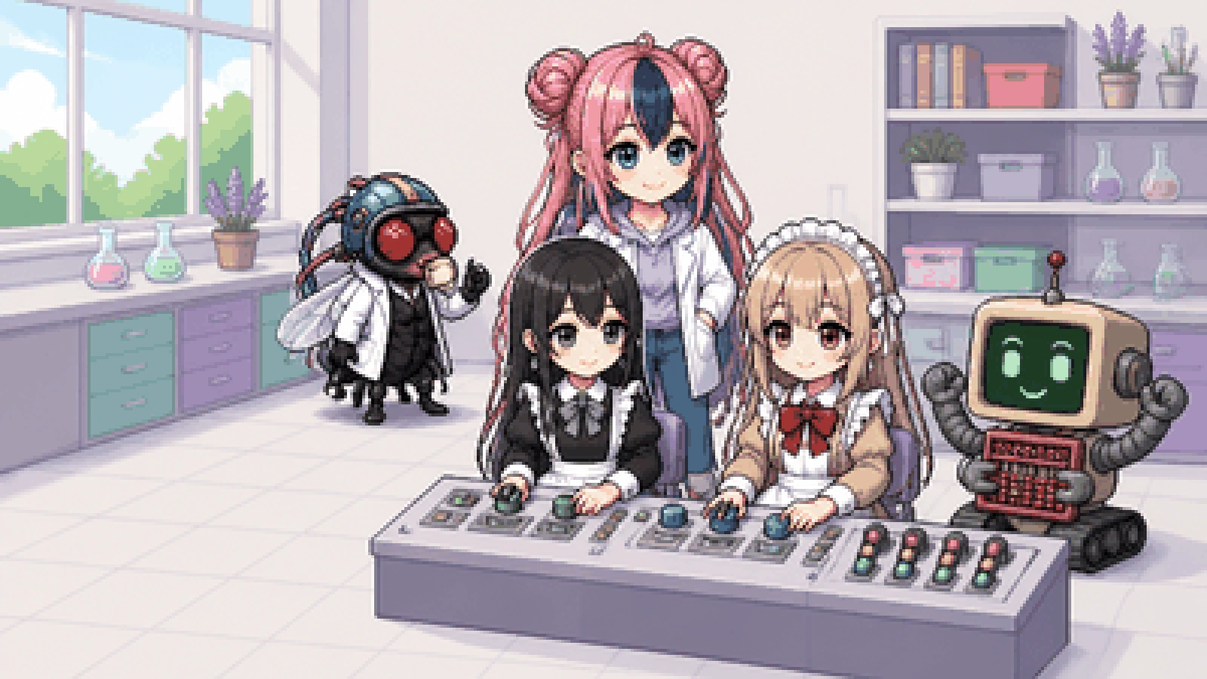
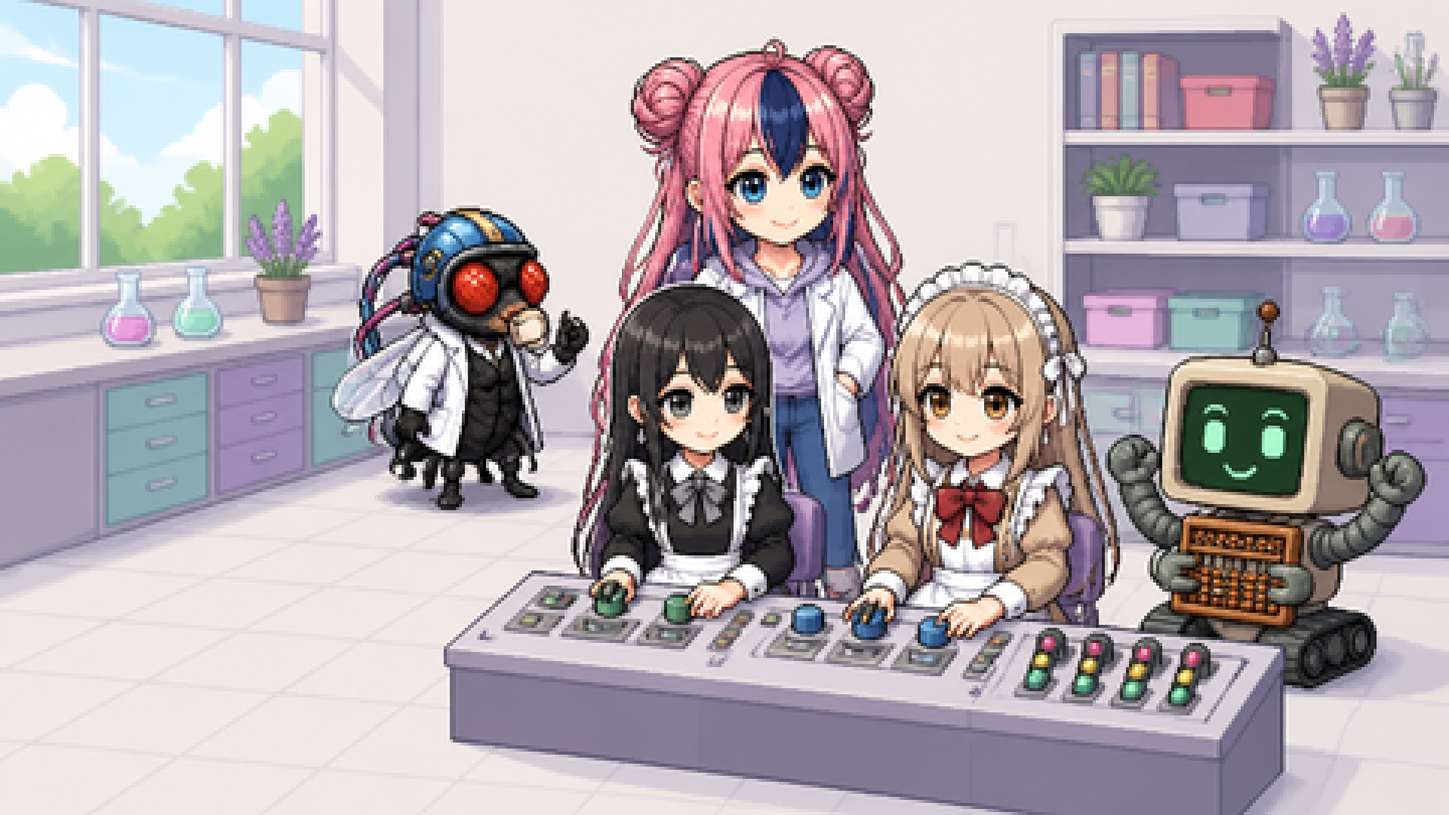
표지 선명하게: 원본 480×270 픽셀을 정수배(4배) 확대·무손실 webp로 교체, image-rendering:pixelated 적용 꾸러미의 조수 말풍선을 글자 상자에서 캐릭터 그림(조수 하루)으로 고침 — 9개 페이지 전부

diff --git a/01_why_not_table.html b/01_why_not_table.html
@@ -46,7 +46,8 @@ nav.top a:hover{background:var(--panel2);color:var(--text)}
 /* 표지 */
 .cover{position:relative;width:100%;aspect-ratio:16/9;max-height:72vh;overflow:hidden;background:linear-gradient(160deg,#f4f7fb,#e8eef6);border-bottom:1px solid var(--rule)}
 .cover.band{aspect-ratio:auto;height:180px}
-.cover img.cimg{position:absolute;inset:0;width:100%;height:100%;object-fit:cover;display:block}
+.cover img.cimg{position:absolute;inset:0;width:100%;height:100%;object-fit:cover;display:block;image-rendering:pixelated;image-rendering:crisp-edges}
+@supports (image-rendering:pixelated){.cover img.cimg{image-rendering:pixelated}}
 .cover .fallback{position:absolute;inset:0;width:100%;height:100%}
 .cover .ctitle{position:absolute;left:4%;bottom:7%;z-index:2;max-width:78%;background:rgba(255,255,255,.88);border:1px solid var(--rule);border-radius:14px;padding:10px 16px}
 .cover .ctitle b{display:block;font-size:clamp(11px,1.5vw,15px);color:var(--amber);letter-spacing:.04em}
@@ -1049,7 +1050,7 @@ var CSS='.kgx-sec{background:var(--bg,#ffffff);color:var(--text,#16212b);padding
 .kgx .stats b{display:block;font-size:24px;font-variant-numeric:tabular-nums}.kgx .stats span{color:var(--muted,#5b6874);font-size:13px}\
 .kgx .say{display:flex;gap:12px;align-items:flex-start;margin:6px 0 14px}\
 .kgx .say .who{flex:none;width:44px;height:44px;border-radius:10px;display:grid;place-items:center;font-weight:700;font-size:13px;color:#13141f}\
-.kgx .say p{margin:0;background:var(--panel2,#eef2f6);border:1px solid var(--rule,#d5dbe2);border-radius:12px;padding:10px 14px;font-size:15px}\
+.kgx .say p{margin:.15em 0 0;font-size:15px}\
 .kgx .refs .r{padding:12px 14px;border-bottom:1px solid var(--rule,#d5dbe2)}.kgx .refs .r:last-child{border-bottom:0}\
 .kgx .badge{display:inline-block;font-size:11.5px;border-radius:5px;padding:0 6px;margin-left:6px;font-weight:700}\
 .kgx .badge.ok{background:var(--gfp,#13733a);color:var(--bg,#ffffff)}.kgx .badge.no{background:transparent;border:1px solid var(--amber,#a35c00);color:var(--amber,#a35c00)}\
@@ -1193,7 +1194,8 @@ function mountExport(root){
   var sup={}; KG.edges.forEach(function(e){ if(e.p==='lab:assertedIn'){var k=e.o.replace('lab:work/',''); (sup[k]=sup[k]||[]).push(e.s);} });
   KG.nodes.forEach(function(n){(n.source||[]).forEach(function(s){(sup[s.ref]=sup[s.ref]||[]); if(sup[s.ref].indexOf(n.id)<0)sup[s.ref].push(n.id);});});
   var N={}; KG.nodes.forEach(function(n){N[n.id]=n;});
-  root.innerHTML='<div class="say"><div class="who" style="background:var(--c-asst,#ff86b8)">조수</div><p>출처 없는 주장은 꾸러미에 넣지 않았어요. 사람이 확인할 항목 '+todo.length+'개는 아래에 있어요.</p></div>'+
+  var asrc=(window.Cast&&Cast.src)?Cast.src('asst','e13'):'';
+  root.innerHTML='<div class="say" data-who="asst"><img data-who="asst" data-mood="e13" alt="" aria-hidden="true"'+(asrc?' src="'+asrc+'"':'')+'><div><b class="name">조수 하루</b><p>출처 없는 주장은 꾸러미에 넣지 않았어요. 사람이 확인할 항목 '+todo.length+'개는 아래에 있어요.</p></div></div>'+
     '<div class="stats"><div><b>'+KG.nodes.length+'</b><span>노드</span></div><div><b>'+KG.edges.length+'</b><span>관계</span></div><div><b>'+REF.length+'</b><span>문헌</span></div>'+
     '<div><b>'+Math.round(100*vb/Math.max(1,REF.length))+'%</b><span>서지 전부 확인된 문헌</span></div>'+
     '<div><b>'+Math.round(100*claims.filter(function(n){return (n.source||[]).length;}).length/Math.max(1,claims.length))+'%</b><span>출처 있는 주장</span></div></div>'+
@@ -1225,7 +1227,7 @@ function mountExport(root){
   root.querySelector('.zip').onclick=function(){download(makeZip(buildPackage(scope)),'kg_'+META.number+'_'+scope+'.zip');};
   info();
 }
-function init(){addCss(); var a=$id('kg-mount'),b=$id('export-mount'); if(a)mountIndex(a); if(b)mountExport(b);}
+function init(){addCss(); var a=$id('kg-mount'),b=$id('export-mount'); if(a)mountIndex(a); if(b)mountExport(b); if(window.Cast&&Cast.fill)Cast.fill();}
 if(document.readyState==='loading')document.addEventListener('DOMContentLoaded',init); else init();
 return {download:download,buildPackage:buildPackage,makeZip:makeZip,toJsonLd:toJsonLd,toTurtle:toTurtle,toBib:toBib,toRis:toRis};
 })();

diff --git a/02_embedding.html b/02_embedding.html
@@ -46,7 +46,8 @@ nav.top a:hover{background:var(--panel2);color:var(--text)}
 /* 표지 */
 .cover{position:relative;width:100%;aspect-ratio:16/9;max-height:72vh;overflow:hidden;background:linear-gradient(160deg,#f4f7fb,#e8eef6);border-bottom:1px solid var(--rule)}
 .cover.band{aspect-ratio:auto;height:180px}
-.cover img.cimg{position:absolute;inset:0;width:100%;height:100%;object-fit:cover;display:block}
+.cover img.cimg{position:absolute;inset:0;width:100%;height:100%;object-fit:cover;display:block;image-rendering:pixelated;image-rendering:crisp-edges}
+@supports (image-rendering:pixelated){.cover img.cimg{image-rendering:pixelated}}
 .cover .fallback{position:absolute;inset:0;width:100%;height:100%}
 .cover .ctitle{position:absolute;left:4%;bottom:7%;z-index:2;max-width:78%;background:rgba(255,255,255,.88);border:1px solid var(--rule);border-radius:14px;padding:10px 16px}
 .cover .ctitle b{display:block;font-size:clamp(11px,1.5vw,15px);color:var(--amber);letter-spacing:.04em}
@@ -1031,7 +1032,7 @@ var CSS='.kgx-sec{background:var(--bg,#ffffff);color:var(--text,#16212b);padding
 .kgx .stats b{display:block;font-size:24px;font-variant-numeric:tabular-nums}.kgx .stats span{color:var(--muted,#5b6874);font-size:13px}\
 .kgx .say{display:flex;gap:12px;align-items:flex-start;margin:6px 0 14px}\
 .kgx .say .who{flex:none;width:44px;height:44px;border-radius:10px;display:grid;place-items:center;font-weight:700;font-size:13px;color:#13141f}\
-.kgx .say p{margin:0;background:var(--panel2,#eef2f6);border:1px solid var(--rule,#d5dbe2);border-radius:12px;padding:10px 14px;font-size:15px}\
+.kgx .say p{margin:.15em 0 0;font-size:15px}\
 .kgx .refs .r{padding:12px 14px;border-bottom:1px solid var(--rule,#d5dbe2)}.kgx .refs .r:last-child{border-bottom:0}\
 .kgx .badge{display:inline-block;font-size:11.5px;border-radius:5px;padding:0 6px;margin-left:6px;font-weight:700}\
 .kgx .badge.ok{background:var(--gfp,#13733a);color:var(--bg,#ffffff)}.kgx .badge.no{background:transparent;border:1px solid var(--amber,#a35c00);color:var(--amber,#a35c00)}\
@@ -1175,7 +1176,8 @@ function mountExport(root){
   var sup={}; KG.edges.forEach(function(e){ if(e.p==='lab:assertedIn'){var k=e.o.replace('lab:work/',''); (sup[k]=sup[k]||[]).push(e.s);} });
   KG.nodes.forEach(function(n){(n.source||[]).forEach(function(s){(sup[s.ref]=sup[s.ref]||[]); if(sup[s.ref].indexOf(n.id)<0)sup[s.ref].push(n.id);});});
   var N={}; KG.nodes.forEach(function(n){N[n.id]=n;});
-  root.innerHTML='<div class="say"><div class="who" style="background:var(--c-asst,#ff86b8)">조수</div><p>출처 없는 주장은 꾸러미에 넣지 않았어요. 사람이 확인할 항목 '+todo.length+'개는 아래에 있어요.</p></div>'+
+  var asrc=(window.Cast&&Cast.src)?Cast.src('asst','e13'):'';
+  root.innerHTML='<div class="say" data-who="asst"><img data-who="asst" data-mood="e13" alt="" aria-hidden="true"'+(asrc?' src="'+asrc+'"':'')+'><div><b class="name">조수 하루</b><p>출처 없는 주장은 꾸러미에 넣지 않았어요. 사람이 확인할 항목 '+todo.length+'개는 아래에 있어요.</p></div></div>'+
     '<div class="stats"><div><b>'+KG.nodes.length+'</b><span>노드</span></div><div><b>'+KG.edges.length+'</b><span>관계</span></div><div><b>'+REF.length+'</b><span>문헌</span></div>'+
     '<div><b>'+Math.round(100*vb/Math.max(1,REF.length))+'%</b><span>서지 전부 확인된 문헌</span></div>'+
     '<div><b>'+Math.round(100*claims.filter(function(n){return (n.source||[]).length;}).length/Math.max(1,claims.length))+'%</b><span>출처 있는 주장</span></div></div>'+
@@ -1207,7 +1209,7 @@ function mountExport(root){
   root.querySelector('.zip').onclick=function(){download(makeZip(buildPackage(scope)),'kg_'+META.number+'_'+scope+'.zip');};
   info();
 }
-function init(){addCss(); var a=$id('kg-mount'),b=$id('export-mount'); if(a)mountIndex(a); if(b)mountExport(b);}
+function init(){addCss(); var a=$id('kg-mount'),b=$id('export-mount'); if(a)mountIndex(a); if(b)mountExport(b); if(window.Cast&&Cast.fill)Cast.fill();}
 if(document.readyState==='loading')document.addEventListener('DOMContentLoaded',init); else init();
 return {download:download,buildPackage:buildPackage,makeZip:makeZip,toJsonLd:toJsonLd,toTurtle:toTurtle,toBib:toBib,toRis:toRis};
 })();

diff --git a/03_vector_store.html b/03_vector_store.html
@@ -46,7 +46,8 @@ nav.top a:hover{background:var(--panel2);color:var(--text)}
 /* 표지 */
 .cover{position:relative;width:100%;aspect-ratio:16/9;max-height:72vh;overflow:hidden;background:linear-gradient(160deg,#f4f7fb,#e8eef6);border-bottom:1px solid var(--rule)}
 .cover.band{aspect-ratio:auto;height:180px}
-.cover img.cimg{position:absolute;inset:0;width:100%;height:100%;object-fit:cover;display:block}
+.cover img.cimg{position:absolute;inset:0;width:100%;height:100%;object-fit:cover;display:block;image-rendering:pixelated;image-rendering:crisp-edges}
+@supports (image-rendering:pixelated){.cover img.cimg{image-rendering:pixelated}}
 .cover .fallback{position:absolute;inset:0;width:100%;height:100%}
 .cover .ctitle{position:absolute;left:4%;bottom:7%;z-index:2;max-width:78%;background:rgba(255,255,255,.88);border:1px solid var(--rule);border-radius:14px;padding:10px 16px}
 .cover .ctitle b{display:block;font-size:clamp(11px,1.5vw,15px);color:var(--amber);letter-spacing:.04em}
@@ -1038,7 +1039,7 @@ var CSS='.kgx-sec{background:var(--bg,#ffffff);color:var(--text,#16212b);padding
 .kgx .stats b{display:block;font-size:24px;font-variant-numeric:tabular-nums}.kgx .stats span{color:var(--muted,#5b6874);font-size:13px}\
 .kgx .say{display:flex;gap:12px;align-items:flex-start;margin:6px 0 14px}\
 .kgx .say .who{flex:none;width:44px;height:44px;border-radius:10px;display:grid;place-items:center;font-weight:700;font-size:13px;color:#13141f}\
-.kgx .say p{margin:0;background:var(--panel2,#eef2f6);border:1px solid var(--rule,#d5dbe2);border-radius:12px;padding:10px 14px;font-size:15px}\
+.kgx .say p{margin:.15em 0 0;font-size:15px}\
 .kgx .refs .r{padding:12px 14px;border-bottom:1px solid var(--rule,#d5dbe2)}.kgx .refs .r:last-child{border-bottom:0}\
 .kgx .badge{display:inline-block;font-size:11.5px;border-radius:5px;padding:0 6px;margin-left:6px;font-weight:700}\
 .kgx .badge.ok{background:var(--gfp,#13733a);color:var(--bg,#ffffff)}.kgx .badge.no{background:transparent;border:1px solid var(--amber,#a35c00);color:var(--amber,#a35c00)}\
@@ -1182,7 +1183,8 @@ function mountExport(root){
   var sup={}; KG.edges.forEach(function(e){ if(e.p==='lab:assertedIn'){var k=e.o.replace('lab:work/',''); (sup[k]=sup[k]||[]).push(e.s);} });
   KG.nodes.forEach(function(n){(n.source||[]).forEach(function(s){(sup[s.ref]=sup[s.ref]||[]); if(sup[s.ref].indexOf(n.id)<0)sup[s.ref].push(n.id);});});
   var N={}; KG.nodes.forEach(function(n){N[n.id]=n;});
-  root.innerHTML='<div class="say"><div class="who" style="background:var(--c-asst,#ff86b8)">조수</div><p>출처 없는 주장은 꾸러미에 넣지 않았어요. 사람이 확인할 항목 '+todo.length+'개는 아래에 있어요.</p></div>'+
+  var asrc=(window.Cast&&Cast.src)?Cast.src('asst','e13'):'';
+  root.innerHTML='<div class="say" data-who="asst"><img data-who="asst" data-mood="e13" alt="" aria-hidden="true"'+(asrc?' src="'+asrc+'"':'')+'><div><b class="name">조수 하루</b><p>출처 없는 주장은 꾸러미에 넣지 않았어요. 사람이 확인할 항목 '+todo.length+'개는 아래에 있어요.</p></div></div>'+
     '<div class="stats"><div><b>'+KG.nodes.length+'</b><span>노드</span></div><div><b>'+KG.edges.length+'</b><span>관계</span></div><div><b>'+REF.length+'</b><span>문헌</span></div>'+
     '<div><b>'+Math.round(100*vb/Math.max(1,REF.length))+'%</b><span>서지 전부 확인된 문헌</span></div>'+
     '<div><b>'+Math.round(100*claims.filter(function(n){return (n.source||[]).length;}).length/Math.max(1,claims.length))+'%</b><span>출처 있는 주장</span></div></div>'+
@@ -1214,7 +1216,7 @@ function mountExport(root){
   root.querySelector('.zip').onclick=function(){download(makeZip(buildPackage(scope)),'kg_'+META.number+'_'+scope+'.zip');};
   info();
 }
-function init(){addCss(); var a=$id('kg-mount'),b=$id('export-mount'); if(a)mountIndex(a); if(b)mountExport(b);}
+function init(){addCss(); var a=$id('kg-mount'),b=$id('export-mount'); if(a)mountIndex(a); if(b)mountExport(b); if(window.Cast&&Cast.fill)Cast.fill();}
 if(document.readyState==='loading')document.addEventListener('DOMContentLoaded',init); else init();
 return {download:download,buildPackage:buildPackage,makeZip:makeZip,toJsonLd:toJsonLd,toTurtle:toTurtle,toBib:toBib,toRis:toRis};
 })();

diff --git a/04_llm_rag.html b/04_llm_rag.html
@@ -46,7 +46,8 @@ nav.top a:hover{background:var(--panel2);color:var(--text)}
 /* 표지 */
 .cover{position:relative;width:100%;aspect-ratio:16/9;max-height:72vh;overflow:hidden;background:linear-gradient(160deg,#f4f7fb,#e8eef6);border-bottom:1px solid var(--rule)}
 .cover.band{aspect-ratio:auto;height:180px}
-.cover img.cimg{position:absolute;inset:0;width:100%;height:100%;object-fit:cover;display:block}
+.cover img.cimg{position:absolute;inset:0;width:100%;height:100%;object-fit:cover;display:block;image-rendering:pixelated;image-rendering:crisp-edges}
+@supports (image-rendering:pixelated){.cover img.cimg{image-rendering:pixelated}}
 .cover .fallback{position:absolute;inset:0;width:100%;height:100%}
 .cover .ctitle{position:absolute;left:4%;bottom:7%;z-index:2;max-width:78%;background:rgba(255,255,255,.88);border:1px solid var(--rule);border-radius:14px;padding:10px 16px}
 .cover .ctitle b{display:block;font-size:clamp(11px,1.5vw,15px);color:var(--amber);letter-spacing:.04em}
@@ -1038,7 +1039,7 @@ var CSS='.kgx-sec{background:var(--bg,#ffffff);color:var(--text,#16212b);padding
 .kgx .stats b{display:block;font-size:24px;font-variant-numeric:tabular-nums}.kgx .stats span{color:var(--muted,#5b6874);font-size:13px}\
 .kgx .say{display:flex;gap:12px;align-items:flex-start;margin:6px 0 14px}\
 .kgx .say .who{flex:none;width:44px;height:44px;border-radius:10px;display:grid;place-items:center;font-weight:700;font-size:13px;color:#13141f}\
-.kgx .say p{margin:0;background:var(--panel2,#eef2f6);border:1px solid var(--rule,#d5dbe2);border-radius:12px;padding:10px 14px;font-size:15px}\
+.kgx .say p{margin:.15em 0 0;font-size:15px}\
 .kgx .refs .r{padding:12px 14px;border-bottom:1px solid var(--rule,#d5dbe2)}.kgx .refs .r:last-child{border-bottom:0}\
 .kgx .badge{display:inline-block;font-size:11.5px;border-radius:5px;padding:0 6px;margin-left:6px;font-weight:700}\
 .kgx .badge.ok{background:var(--gfp,#13733a);color:var(--bg,#ffffff)}.kgx .badge.no{background:transparent;border:1px solid var(--amber,#a35c00);color:var(--amber,#a35c00)}\
@@ -1182,7 +1183,8 @@ function mountExport(root){
   var sup={}; KG.edges.forEach(function(e){ if(e.p==='lab:assertedIn'){var k=e.o.replace('lab:work/',''); (sup[k]=sup[k]||[]).push(e.s);} });
   KG.nodes.forEach(function(n){(n.source||[]).forEach(function(s){(sup[s.ref]=sup[s.ref]||[]); if(sup[s.ref].indexOf(n.id)<0)sup[s.ref].push(n.id);});});
   var N={}; KG.nodes.forEach(function(n){N[n.id]=n;});
-  root.innerHTML='<div class="say"><div class="who" style="background:var(--c-asst,#ff86b8)">조수</div><p>출처 없는 주장은 꾸러미에 넣지 않았어요. 사람이 확인할 항목 '+todo.length+'개는 아래에 있어요.</p></div>'+
+  var asrc=(window.Cast&&Cast.src)?Cast.src('asst','e13'):'';
+  root.innerHTML='<div class="say" data-who="asst"><img data-who="asst" data-mood="e13" alt="" aria-hidden="true"'+(asrc?' src="'+asrc+'"':'')+'><div><b class="name">조수 하루</b><p>출처 없는 주장은 꾸러미에 넣지 않았어요. 사람이 확인할 항목 '+todo.length+'개는 아래에 있어요.</p></div></div>'+
     '<div class="stats"><div><b>'+KG.nodes.length+'</b><span>노드</span></div><div><b>'+KG.edges.length+'</b><span>관계</span></div><div><b>'+REF.length+'</b><span>문헌</span></div>'+
     '<div><b>'+Math.round(100*vb/Math.max(1,REF.length))+'%</b><span>서지 전부 확인된 문헌</span></div>'+
     '<div><b>'+Math.round(100*claims.filter(function(n){return (n.source||[]).length;}).length/Math.max(1,claims.length))+'%</b><span>출처 있는 주장</span></div></div>'+
@@ -1214,7 +1216,7 @@ function mountExport(root){
   root.querySelector('.zip').onclick=function(){download(makeZip(buildPackage(scope)),'kg_'+META.number+'_'+scope+'.zip');};
   info();
 }
-function init(){addCss(); var a=$id('kg-mount'),b=$id('export-mount'); if(a)mountIndex(a); if(b)mountExport(b);}
+function init(){addCss(); var a=$id('kg-mount'),b=$id('export-mount'); if(a)mountIndex(a); if(b)mountExport(b); if(window.Cast&&Cast.fill)Cast.fill();}
 if(document.readyState==='loading')document.addEventListener('DOMContentLoaded',init); else init();
 return {download:download,buildPackage:buildPackage,makeZip:makeZip,toJsonLd:toJsonLd,toTurtle:toTurtle,toBib:toBib,toRis:toRis};
 })();

diff --git a/05_cases.html b/05_cases.html
@@ -46,7 +46,8 @@ nav.top a:hover{background:var(--panel2);color:var(--text)}
 /* 표지 */
 .cover{position:relative;width:100%;aspect-ratio:16/9;max-height:72vh;overflow:hidden;background:linear-gradient(160deg,#f4f7fb,#e8eef6);border-bottom:1px solid var(--rule)}
 .cover.band{aspect-ratio:auto;height:180px}
-.cover img.cimg{position:absolute;inset:0;width:100%;height:100%;object-fit:cover;display:block}
+.cover img.cimg{position:absolute;inset:0;width:100%;height:100%;object-fit:cover;display:block;image-rendering:pixelated;image-rendering:crisp-edges}
+@supports (image-rendering:pixelated){.cover img.cimg{image-rendering:pixelated}}
 .cover .fallback{position:absolute;inset:0;width:100%;height:100%}
 .cover .ctitle{position:absolute;left:4%;bottom:7%;z-index:2;max-width:78%;background:rgba(255,255,255,.88);border:1px solid var(--rule);border-radius:14px;padding:10px 16px}
 .cover .ctitle b{display:block;font-size:clamp(11px,1.5vw,15px);color:var(--amber);letter-spacing:.04em}
@@ -1051,7 +1052,7 @@ var CSS='.kgx-sec{background:var(--bg,#ffffff);color:var(--text,#16212b);padding
 .kgx .stats b{display:block;font-size:24px;font-variant-numeric:tabular-nums}.kgx .stats span{color:var(--muted,#5b6874);font-size:13px}\
 .kgx .say{display:flex;gap:12px;align-items:flex-start;margin:6px 0 14px}\
 .kgx .say .who{flex:none;width:44px;height:44px;border-radius:10px;display:grid;place-items:center;font-weight:700;font-size:13px;color:#13141f}\
-.kgx .say p{margin:0;background:var(--panel2,#eef2f6);border:1px solid var(--rule,#d5dbe2);border-radius:12px;padding:10px 14px;font-size:15px}\
+.kgx .say p{margin:.15em 0 0;font-size:15px}\
 .kgx .refs .r{padding:12px 14px;border-bottom:1px solid var(--rule,#d5dbe2)}.kgx .refs .r:last-child{border-bottom:0}\
 .kgx .badge{display:inline-block;font-size:11.5px;border-radius:5px;padding:0 6px;margin-left:6px;font-weight:700}\
 .kgx .badge.ok{background:var(--gfp,#13733a);color:var(--bg,#ffffff)}.kgx .badge.no{background:transparent;border:1px solid var(--amber,#a35c00);color:var(--amber,#a35c00)}\
@@ -1195,7 +1196,8 @@ function mountExport(root){
   var sup={}; KG.edges.forEach(function(e){ if(e.p==='lab:assertedIn'){var k=e.o.replace('lab:work/',''); (sup[k]=sup[k]||[]).push(e.s);} });
   KG.nodes.forEach(function(n){(n.source||[]).forEach(function(s){(sup[s.ref]=sup[s.ref]||[]); if(sup[s.ref].indexOf(n.id)<0)sup[s.ref].push(n.id);});});
   var N={}; KG.nodes.forEach(function(n){N[n.id]=n;});
-  root.innerHTML='<div class="say"><div class="who" style="background:var(--c-asst,#ff86b8)">조수</div><p>출처 없는 주장은 꾸러미에 넣지 않았어요. 사람이 확인할 항목 '+todo.length+'개는 아래에 있어요.</p></div>'+
+  var asrc=(window.Cast&&Cast.src)?Cast.src('asst','e13'):'';
+  root.innerHTML='<div class="say" data-who="asst"><img data-who="asst" data-mood="e13" alt="" aria-hidden="true"'+(asrc?' src="'+asrc+'"':'')+'><div><b class="name">조수 하루</b><p>출처 없는 주장은 꾸러미에 넣지 않았어요. 사람이 확인할 항목 '+todo.length+'개는 아래에 있어요.</p></div></div>'+
     '<div class="stats"><div><b>'+KG.nodes.length+'</b><span>노드</span></div><div><b>'+KG.edges.length+'</b><span>관계</span></div><div><b>'+REF.length+'</b><span>문헌</span></div>'+
     '<div><b>'+Math.round(100*vb/Math.max(1,REF.length))+'%</b><span>서지 전부 확인된 문헌</span></div>'+
     '<div><b>'+Math.round(100*claims.filter(function(n){return (n.source||[]).length;}).length/Math.max(1,claims.length))+'%</b><span>출처 있는 주장</span></div></div>'+
@@ -1227,7 +1229,7 @@ function mountExport(root){
   root.querySelector('.zip').onclick=function(){download(makeZip(buildPackage(scope)),'kg_'+META.number+'_'+scope+'.zip');};
   info();
 }
-function init(){addCss(); var a=$id('kg-mount'),b=$id('export-mount'); if(a)mountIndex(a); if(b)mountExport(b);}
+function init(){addCss(); var a=$id('kg-mount'),b=$id('export-mount'); if(a)mountIndex(a); if(b)mountExport(b); if(window.Cast&&Cast.fill)Cast.fill();}
 if(document.readyState==='loading')document.addEventListener('DOMContentLoaded',init); else init();
 return {download:download,buildPackage:buildPackage,makeZip:makeZip,toJsonLd:toJsonLd,toTurtle:toTurtle,toBib:toBib,toRis:toRis};
 })();

diff --git a/06_attention_3d.html b/06_attention_3d.html
@@ -46,7 +46,8 @@ nav.top a:hover{background:var(--panel2);color:var(--text)}
 /* 표지 */
 .cover{position:relative;width:100%;aspect-ratio:16/9;max-height:72vh;overflow:hidden;background:linear-gradient(160deg,#f4f7fb,#e8eef6);border-bottom:1px solid var(--rule)}
 .cover.band{aspect-ratio:auto;height:180px}
-.cover img.cimg{position:absolute;inset:0;width:100%;height:100%;object-fit:cover;display:block}
+.cover img.cimg{position:absolute;inset:0;width:100%;height:100%;object-fit:cover;display:block;image-rendering:pixelated;image-rendering:crisp-edges}
+@supports (image-rendering:pixelated){.cover img.cimg{image-rendering:pixelated}}
 .cover .fallback{position:absolute;inset:0;width:100%;height:100%}
 .cover .ctitle{position:absolute;left:4%;bottom:7%;z-index:2;max-width:78%;background:rgba(255,255,255,.88);border:1px solid var(--rule);border-radius:14px;padding:10px 16px}
 .cover .ctitle b{display:block;font-size:clamp(11px,1.5vw,15px);color:var(--amber);letter-spacing:.04em}
@@ -1043,7 +1044,7 @@ var CSS='.kgx-sec{background:var(--bg,#ffffff);color:var(--text,#16212b);padding
 .kgx .stats b{display:block;font-size:24px;font-variant-numeric:tabular-nums}.kgx .stats span{color:var(--muted,#5b6874);font-size:13px}\
 .kgx .say{display:flex;gap:12px;align-items:flex-start;margin:6px 0 14px}\
 .kgx .say .who{flex:none;width:44px;height:44px;border-radius:10px;display:grid;place-items:center;font-weight:700;font-size:13px;color:#13141f}\
-.kgx .say p{margin:0;background:var(--panel2,#eef2f6);border:1px solid var(--rule,#d5dbe2);border-radius:12px;padding:10px 14px;font-size:15px}\
+.kgx .say p{margin:.15em 0 0;font-size:15px}\
 .kgx .refs .r{padding:12px 14px;border-bottom:1px solid var(--rule,#d5dbe2)}.kgx .refs .r:last-child{border-bottom:0}\
 .kgx .badge{display:inline-block;font-size:11.5px;border-radius:5px;padding:0 6px;margin-left:6px;font-weight:700}\
 .kgx .badge.ok{background:var(--gfp,#13733a);color:var(--bg,#ffffff)}.kgx .badge.no{background:transparent;border:1px solid var(--amber,#a35c00);color:var(--amber,#a35c00)}\
@@ -1187,7 +1188,8 @@ function mountExport(root){
   var sup={}; KG.edges.forEach(function(e){ if(e.p==='lab:assertedIn'){var k=e.o.replace('lab:work/',''); (sup[k]=sup[k]||[]).push(e.s);} });
   KG.nodes.forEach(function(n){(n.source||[]).forEach(function(s){(sup[s.ref]=sup[s.ref]||[]); if(sup[s.ref].indexOf(n.id)<0)sup[s.ref].push(n.id);});});
   var N={}; KG.nodes.forEach(function(n){N[n.id]=n;});
-  root.innerHTML='<div class="say"><div class="who" style="background:var(--c-asst,#ff86b8)">조수</div><p>출처 없는 주장은 꾸러미에 넣지 않았어요. 사람이 확인할 항목 '+todo.length+'개는 아래에 있어요.</p></div>'+
+  var asrc=(window.Cast&&Cast.src)?Cast.src('asst','e13'):'';
+  root.innerHTML='<div class="say" data-who="asst"><img data-who="asst" data-mood="e13" alt="" aria-hidden="true"'+(asrc?' src="'+asrc+'"':'')+'><div><b class="name">조수 하루</b><p>출처 없는 주장은 꾸러미에 넣지 않았어요. 사람이 확인할 항목 '+todo.length+'개는 아래에 있어요.</p></div></div>'+
     '<div class="stats"><div><b>'+KG.nodes.length+'</b><span>노드</span></div><div><b>'+KG.edges.length+'</b><span>관계</span></div><div><b>'+REF.length+'</b><span>문헌</span></div>'+
     '<div><b>'+Math.round(100*vb/Math.max(1,REF.length))+'%</b><span>서지 전부 확인된 문헌</span></div>'+
     '<div><b>'+Math.round(100*claims.filter(function(n){return (n.source||[]).length;}).length/Math.max(1,claims.length))+'%</b><span>출처 있는 주장</span></div></div>'+
@@ -1219,7 +1221,7 @@ function mountExport(root){
   root.querySelector('.zip').onclick=function(){download(makeZip(buildPackage(scope)),'kg_'+META.number+'_'+scope+'.zip');};
   info();
 }
-function init(){addCss(); var a=$id('kg-mount'),b=$id('export-mount'); if(a)mountIndex(a); if(b)mountExport(b);}
+function init(){addCss(); var a=$id('kg-mount'),b=$id('export-mount'); if(a)mountIndex(a); if(b)mountExport(b); if(window.Cast&&Cast.fill)Cast.fill();}
 if(document.readyState==='loading')document.addEventListener('DOMContentLoaded',init); else init();
 return {download:download,buildPackage:buildPackage,makeZip:makeZip,toJsonLd:toJsonLd,toTurtle:toTurtle,toBib:toBib,toRis:toRis};
 })();

diff --git a/07_graph_ontology.html b/07_graph_ontology.html
@@ -46,7 +46,8 @@ nav.top a:hover{background:var(--panel2);color:var(--text)}
 /* 표지 */
 .cover{position:relative;width:100%;aspect-ratio:16/9;max-height:72vh;overflow:hidden;background:linear-gradient(160deg,#f4f7fb,#e8eef6);border-bottom:1px solid var(--rule)}
 .cover.band{aspect-ratio:auto;height:180px}
-.cover img.cimg{position:absolute;inset:0;width:100%;height:100%;object-fit:cover;display:block}
+.cover img.cimg{position:absolute;inset:0;width:100%;height:100%;object-fit:cover;display:block;image-rendering:pixelated;image-rendering:crisp-edges}
+@supports (image-rendering:pixelated){.cover img.cimg{image-rendering:pixelated}}
 .cover .fallback{position:absolute;inset:0;width:100%;height:100%}
 .cover .ctitle{position:absolute;left:4%;bottom:7%;z-index:2;max-width:78%;background:rgba(255,255,255,.88);border:1px solid var(--rule);border-radius:14px;padding:10px 16px}
 .cover .ctitle b{display:block;font-size:clamp(11px,1.5vw,15px);color:var(--amber);letter-spacing:.04em}
@@ -1038,7 +1039,7 @@ var CSS='.kgx-sec{background:var(--bg,#ffffff);color:var(--text,#16212b);padding
 .kgx .stats b{display:block;font-size:24px;font-variant-numeric:tabular-nums}.kgx .stats span{color:var(--muted,#5b6874);font-size:13px}\
 .kgx .say{display:flex;gap:12px;align-items:flex-start;margin:6px 0 14px}\
 .kgx .say .who{flex:none;width:44px;height:44px;border-radius:10px;display:grid;place-items:center;font-weight:700;font-size:13px;color:#13141f}\
-.kgx .say p{margin:0;background:var(--panel2,#eef2f6);border:1px solid var(--rule,#d5dbe2);border-radius:12px;padding:10px 14px;font-size:15px}\
+.kgx .say p{margin:.15em 0 0;font-size:15px}\
 .kgx .refs .r{padding:12px 14px;border-bottom:1px solid var(--rule,#d5dbe2)}.kgx .refs .r:last-child{border-bottom:0}\
 .kgx .badge{display:inline-block;font-size:11.5px;border-radius:5px;padding:0 6px;margin-left:6px;font-weight:700}\
 .kgx .badge.ok{background:var(--gfp,#13733a);color:var(--bg,#ffffff)}.kgx .badge.no{background:transparent;border:1px solid var(--amber,#a35c00);color:var(--amber,#a35c00)}\
@@ -1182,7 +1183,8 @@ function mountExport(root){
   var sup={}; KG.edges.forEach(function(e){ if(e.p==='lab:assertedIn'){var k=e.o.replace('lab:work/',''); (sup[k]=sup[k]||[]).push(e.s);} });
   KG.nodes.forEach(function(n){(n.source||[]).forEach(function(s){(sup[s.ref]=sup[s.ref]||[]); if(sup[s.ref].indexOf(n.id)<0)sup[s.ref].push(n.id);});});
   var N={}; KG.nodes.forEach(function(n){N[n.id]=n;});
-  root.innerHTML='<div class="say"><div class="who" style="background:var(--c-asst,#ff86b8)">조수</div><p>출처 없는 주장은 꾸러미에 넣지 않았어요. 사람이 확인할 항목 '+todo.length+'개는 아래에 있어요.</p></div>'+
+  var asrc=(window.Cast&&Cast.src)?Cast.src('asst','e13'):'';
+  root.innerHTML='<div class="say" data-who="asst"><img data-who="asst" data-mood="e13" alt="" aria-hidden="true"'+(asrc?' src="'+asrc+'"':'')+'><div><b class="name">조수 하루</b><p>출처 없는 주장은 꾸러미에 넣지 않았어요. 사람이 확인할 항목 '+todo.length+'개는 아래에 있어요.</p></div></div>'+
     '<div class="stats"><div><b>'+KG.nodes.length+'</b><span>노드</span></div><div><b>'+KG.edges.length+'</b><span>관계</span></div><div><b>'+REF.length+'</b><span>문헌</span></div>'+
     '<div><b>'+Math.round(100*vb/Math.max(1,REF.length))+'%</b><span>서지 전부 확인된 문헌</span></div>'+
     '<div><b>'+Math.round(100*claims.filter(function(n){return (n.source||[]).length;}).length/Math.max(1,claims.length))+'%</b><span>출처 있는 주장</span></div></div>'+
@@ -1214,7 +1216,7 @@ function mountExport(root){
   root.querySelector('.zip').onclick=function(){download(makeZip(buildPackage(scope)),'kg_'+META.number+'_'+scope+'.zip');};
   info();
 }
-function init(){addCss(); var a=$id('kg-mount'),b=$id('export-mount'); if(a)mountIndex(a); if(b)mountExport(b);}
+function init(){addCss(); var a=$id('kg-mount'),b=$id('export-mount'); if(a)mountIndex(a); if(b)mountExport(b); if(window.Cast&&Cast.fill)Cast.fill();}
 if(document.readyState==='loading')document.addEventListener('DOMContentLoaded',init); else init();
 return {download:download,buildPackage:buildPackage,makeZip:makeZip,toJsonLd:toJsonLd,toTurtle:toTurtle,toBib:toBib,toRis:toRis};
 })();

diff --git a/practice/index.html b/practice/index.html
@@ -46,7 +46,8 @@ nav.top a:hover{background:var(--panel2);color:var(--text)}
 /* 표지 */
 .cover{position:relative;width:100%;aspect-ratio:16/9;max-height:72vh;overflow:hidden;background:linear-gradient(160deg,#f4f7fb,#e8eef6);border-bottom:1px solid var(--rule)}
 .cover.band{aspect-ratio:auto;height:180px}
-.cover img.cimg{position:absolute;inset:0;width:100%;height:100%;object-fit:cover;display:block}
+.cover img.cimg{position:absolute;inset:0;width:100%;height:100%;object-fit:cover;display:block;image-rendering:pixelated;image-rendering:crisp-edges}
+@supports (image-rendering:pixelated){.cover img.cimg{image-rendering:pixelated}}
 .cover .fallback{position:absolute;inset:0;width:100%;height:100%}
 .cover .ctitle{position:absolute;left:4%;bottom:7%;z-index:2;max-width:78%;background:rgba(255,255,255,.88);border:1px solid var(--rule);border-radius:14px;padding:10px 16px}
 .cover .ctitle b{display:block;font-size:clamp(11px,1.5vw,15px);color:var(--amber);letter-spacing:.04em}
@@ -1066,7 +1067,7 @@ var CSS='.kgx-sec{background:var(--bg,#ffffff);color:var(--text,#16212b);padding
 .kgx .stats b{display:block;font-size:24px;font-variant-numeric:tabular-nums}.kgx .stats span{color:var(--muted,#5b6874);font-size:13px}\
 .kgx .say{display:flex;gap:12px;align-items:flex-start;margin:6px 0 14px}\
 .kgx .say .who{flex:none;width:44px;height:44px;border-radius:10px;display:grid;place-items:center;font-weight:700;font-size:13px;color:#13141f}\
-.kgx .say p{margin:0;background:var(--panel2,#eef2f6);border:1px solid var(--rule,#d5dbe2);border-radius:12px;padding:10px 14px;font-size:15px}\
+.kgx .say p{margin:.15em 0 0;font-size:15px}\
 .kgx .refs .r{padding:12px 14px;border-bottom:1px solid var(--rule,#d5dbe2)}.kgx .refs .r:last-child{border-bottom:0}\
 .kgx .badge{display:inline-block;font-size:11.5px;border-radius:5px;padding:0 6px;margin-left:6px;font-weight:700}\
 .kgx .badge.ok{background:var(--gfp,#13733a);color:var(--bg,#ffffff)}.kgx .badge.no{background:transparent;border:1px solid var(--amber,#a35c00);color:var(--amber,#a35c00)}\
@@ -1210,7 +1211,8 @@ function mountExport(root){
   var sup={}; KG.edges.forEach(function(e){ if(e.p==='lab:assertedIn'){var k=e.o.replace('lab:work/',''); (sup[k]=sup[k]||[]).push(e.s);} });
   KG.nodes.forEach(function(n){(n.source||[]).forEach(function(s){(sup[s.ref]=sup[s.ref]||[]); if(sup[s.ref].indexOf(n.id)<0)sup[s.ref].push(n.id);});});
   var N={}; KG.nodes.forEach(function(n){N[n.id]=n;});
-  root.innerHTML='<div class="say"><div class="who" style="background:var(--c-asst,#ff86b8)">조수</div><p>출처 없는 주장은 꾸러미에 넣지 않았어요. 사람이 확인할 항목 '+todo.length+'개는 아래에 있어요.</p></div>'+
+  var asrc=(window.Cast&&Cast.src)?Cast.src('asst','e13'):'';
+  root.innerHTML='<div class="say" data-who="asst"><img data-who="asst" data-mood="e13" alt="" aria-hidden="true"'+(asrc?' src="'+asrc+'"':'')+'><div><b class="name">조수 하루</b><p>출처 없는 주장은 꾸러미에 넣지 않았어요. 사람이 확인할 항목 '+todo.length+'개는 아래에 있어요.</p></div></div>'+
     '<div class="stats"><div><b>'+KG.nodes.length+'</b><span>노드</span></div><div><b>'+KG.edges.length+'</b><span>관계</span></div><div><b>'+REF.length+'</b><span>문헌</span></div>'+
     '<div><b>'+Math.round(100*vb/Math.max(1,REF.length))+'%</b><span>서지 전부 확인된 문헌</span></div>'+
     '<div><b>'+Math.round(100*claims.filter(function(n){return (n.source||[]).length;}).length/Math.max(1,claims.length))+'%</b><span>출처 있는 주장</span></div></div>'+
@@ -1242,7 +1244,7 @@ function mountExport(root){
   root.querySelector('.zip').onclick=function(){download(makeZip(buildPackage(scope)),'kg_'+META.number+'_'+scope+'.zip');};
   info();
 }
-function init(){addCss(); var a=$id('kg-mount'),b=$id('export-mount'); if(a)mountIndex(a); if(b)mountExport(b);}
+function init(){addCss(); var a=$id('kg-mount'),b=$id('export-mount'); if(a)mountIndex(a); if(b)mountExport(b); if(window.Cast&&Cast.fill)Cast.fill();}
 if(document.readyState==='loading')document.addEventListener('DOMContentLoaded',init); else init();
 return {download:download,buildPackage:buildPackage,makeZip:makeZip,toJsonLd:toJsonLd,toTurtle:toTurtle,toBib:toBib,toRis:toRis};
 })();

diff --git a/index.html b/index.html
@@ -46,7 +46,8 @@ nav.top a:hover{background:var(--panel2);color:var(--text)}
 /* 표지 */
 .cover{position:relative;width:100%;aspect-ratio:16/9;max-height:72vh;overflow:hidden;background:linear-gradient(160deg,#f4f7fb,#e8eef6);border-bottom:1px solid var(--rule)}
 .cover.band{aspect-ratio:auto;height:180px}
-.cover img.cimg{position:absolute;inset:0;width:100%;height:100%;object-fit:cover;display:block}
+.cover img.cimg{position:absolute;inset:0;width:100%;height:100%;object-fit:cover;display:block;image-rendering:pixelated;image-rendering:crisp-edges}
+@supports (image-rendering:pixelated){.cover img.cimg{image-rendering:pixelated}}
 .cover .fallback{position:absolute;inset:0;width:100%;height:100%}
 .cover .ctitle{position:absolute;left:4%;bottom:7%;z-index:2;max-width:78%;background:rgba(255,255,255,.88);border:1px solid var(--rule);border-radius:14px;padding:10px 16px}
 .cover .ctitle b{display:block;font-size:clamp(11px,1.5vw,15px);color:var(--amber);letter-spacing:.04em}
@@ -968,7 +969,7 @@ var CSS='.kgx-sec{background:var(--bg,#ffffff);color:var(--text,#16212b);padding
 .kgx .stats b{display:block;font-size:24px;font-variant-numeric:tabular-nums}.kgx .stats span{color:var(--muted,#5b6874);font-size:13px}\
 .kgx .say{display:flex;gap:12px;align-items:flex-start;margin:6px 0 14px}\
 .kgx .say .who{flex:none;width:44px;height:44px;border-radius:10px;display:grid;place-items:center;font-weight:700;font-size:13px;color:#13141f}\
-.kgx .say p{margin:0;background:var(--panel2,#eef2f6);border:1px solid var(--rule,#d5dbe2);border-radius:12px;padding:10px 14px;font-size:15px}\
+.kgx .say p{margin:.15em 0 0;font-size:15px}\
 .kgx .refs .r{padding:12px 14px;border-bottom:1px solid var(--rule,#d5dbe2)}.kgx .refs .r:last-child{border-bottom:0}\
 .kgx .badge{display:inline-block;font-size:11.5px;border-radius:5px;padding:0 6px;margin-left:6px;font-weight:700}\
 .kgx .badge.ok{background:var(--gfp,#13733a);color:var(--bg,#ffffff)}.kgx .badge.no{background:transparent;border:1px solid var(--amber,#a35c00);color:var(--amber,#a35c00)}\
@@ -1112,7 +1113,8 @@ function mountExport(root){
   var sup={}; KG.edges.forEach(function(e){ if(e.p==='lab:assertedIn'){var k=e.o.replace('lab:work/',''); (sup[k]=sup[k]||[]).push(e.s);} });
   KG.nodes.forEach(function(n){(n.source||[]).forEach(function(s){(sup[s.ref]=sup[s.ref]||[]); if(sup[s.ref].indexOf(n.id)<0)sup[s.ref].push(n.id);});});
   var N={}; KG.nodes.forEach(function(n){N[n.id]=n;});
-  root.innerHTML='<div class="say"><div class="who" style="background:var(--c-asst,#ff86b8)">조수</div><p>출처 없는 주장은 꾸러미에 넣지 않았어요. 사람이 확인할 항목 '+todo.length+'개는 아래에 있어요.</p></div>'+
+  var asrc=(window.Cast&&Cast.src)?Cast.src('asst','e13'):'';
+  root.innerHTML='<div class="say" data-who="asst"><img data-who="asst" data-mood="e13" alt="" aria-hidden="true"'+(asrc?' src="'+asrc+'"':'')+'><div><b class="name">조수 하루</b><p>출처 없는 주장은 꾸러미에 넣지 않았어요. 사람이 확인할 항목 '+todo.length+'개는 아래에 있어요.</p></div></div>'+
     '<div class="stats"><div><b>'+KG.nodes.length+'</b><span>노드</span></div><div><b>'+KG.edges.length+'</b><span>관계</span></div><div><b>'+REF.length+'</b><span>문헌</span></div>'+
     '<div><b>'+Math.round(100*vb/Math.max(1,REF.length))+'%</b><span>서지 전부 확인된 문헌</span></div>'+
     '<div><b>'+Math.round(100*claims.filter(function(n){return (n.source||[]).length;}).length/Math.max(1,claims.length))+'%</b><span>출처 있는 주장</span></div></div>'+
@@ -1144,7 +1146,7 @@ function mountExport(root){
   root.querySelector('.zip').onclick=function(){download(makeZip(buildPackage(scope)),'kg_'+META.number+'_'+scope+'.zip');};
   info();
 }
-function init(){addCss(); var a=$id('kg-mount'),b=$id('export-mount'); if(a)mountIndex(a); if(b)mountExport(b);}
+function init(){addCss(); var a=$id('kg-mount'),b=$id('export-mount'); if(a)mountIndex(a); if(b)mountExport(b); if(window.Cast&&Cast.fill)Cast.fill();}
 if(document.readyState==='loading')document.addEventListener('DOMContentLoaded',init); else init();
 return {download:download,buildPackage:buildPackage,makeZip:makeZip,toJsonLd:toJsonLd,toTurtle:toTurtle,toBib:toBib,toRis:toRis};
 })();

diff --git a/build/kgx.js b/build/kgx.js
@@ -219,7 +219,7 @@ var CSS='.kgx-sec{background:var(--bg,#ffffff);color:var(--text,#16212b);padding
 .kgx .stats b{display:block;font-size:24px;font-variant-numeric:tabular-nums}.kgx .stats span{color:var(--muted,#5b6874);font-size:13px}\
 .kgx .say{display:flex;gap:12px;align-items:flex-start;margin:6px 0 14px}\
 .kgx .say .who{flex:none;width:44px;height:44px;border-radius:10px;display:grid;place-items:center;font-weight:700;font-size:13px;color:#13141f}\
-.kgx .say p{margin:0;background:var(--panel2,#eef2f6);border:1px solid var(--rule,#d5dbe2);border-radius:12px;padding:10px 14px;font-size:15px}\
+.kgx .say p{margin:.15em 0 0;font-size:15px}\
 .kgx .refs .r{padding:12px 14px;border-bottom:1px solid var(--rule,#d5dbe2)}.kgx .refs .r:last-child{border-bottom:0}\
 .kgx .badge{display:inline-block;font-size:11.5px;border-radius:5px;padding:0 6px;margin-left:6px;font-weight:700}\
 .kgx .badge.ok{background:var(--gfp,#13733a);color:var(--bg,#ffffff)}.kgx .badge.no{background:transparent;border:1px solid var(--amber,#a35c00);color:var(--amber,#a35c00)}\
@@ -363,7 +363,8 @@ function mountExport(root){
   var sup={}; KG.edges.forEach(function(e){ if(e.p==='lab:assertedIn'){var k=e.o.replace('lab:work/',''); (sup[k]=sup[k]||[]).push(e.s);} });
   KG.nodes.forEach(function(n){(n.source||[]).forEach(function(s){(sup[s.ref]=sup[s.ref]||[]); if(sup[s.ref].indexOf(n.id)<0)sup[s.ref].push(n.id);});});
   var N={}; KG.nodes.forEach(function(n){N[n.id]=n;});
-  root.innerHTML='<div class="say"><div class="who" style="background:var(--c-asst,#ff86b8)">조수</div><p>출처 없는 주장은 꾸러미에 넣지 않았어요. 사람이 확인할 항목 '+todo.length+'개는 아래에 있어요.</p></div>'+
+  var asrc=(window.Cast&&Cast.src)?Cast.src('asst','e13'):'';
+  root.innerHTML='<div class="say" data-who="asst"><img data-who="asst" data-mood="e13" alt="" aria-hidden="true"'+(asrc?' src="'+asrc+'"':'')+'><div><b class="name">조수 하루</b><p>출처 없는 주장은 꾸러미에 넣지 않았어요. 사람이 확인할 항목 '+todo.length+'개는 아래에 있어요.</p></div></div>'+
     '<div class="stats"><div><b>'+KG.nodes.length+'</b><span>노드</span></div><div><b>'+KG.edges.length+'</b><span>관계</span></div><div><b>'+REF.length+'</b><span>문헌</span></div>'+
     '<div><b>'+Math.round(100*vb/Math.max(1,REF.length))+'%</b><span>서지 전부 확인된 문헌</span></div>'+
     '<div><b>'+Math.round(100*claims.filter(function(n){return (n.source||[]).length;}).length/Math.max(1,claims.length))+'%</b><span>출처 있는 주장</span></div></div>'+
@@ -395,7 +396,7 @@ function mountExport(root){
   root.querySelector('.zip').onclick=function(){download(makeZip(buildPackage(scope)),'kg_'+META.number+'_'+scope+'.zip');};
   info();
 }
-function init(){addCss(); var a=$id('kg-mount'),b=$id('export-mount'); if(a)mountIndex(a); if(b)mountExport(b);}
+function init(){addCss(); var a=$id('kg-mount'),b=$id('export-mount'); if(a)mountIndex(a); if(b)mountExport(b); if(window.Cast&&Cast.fill)Cast.fill();}
 if(document.readyState==='loading')document.addEventListener('DOMContentLoaded',init); else init();
 return {download:download,buildPackage:buildPackage,makeZip:makeZip,toJsonLd:toJsonLd,toTurtle:toTurtle,toBib:toBib,toRis:toRis};
 })();

diff --git a/build/base.css b/build/base.css
@@ -33,7 +33,8 @@ nav.top a:hover{background:var(--panel2);color:var(--text)}
 /* 표지 */
 .cover{position:relative;width:100%;aspect-ratio:16/9;max-height:72vh;overflow:hidden;background:linear-gradient(160deg,#f4f7fb,#e8eef6);border-bottom:1px solid var(--rule)}
 .cover.band{aspect-ratio:auto;height:180px}
-.cover img.cimg{position:absolute;inset:0;width:100%;height:100%;object-fit:cover;display:block}
+.cover img.cimg{position:absolute;inset:0;width:100%;height:100%;object-fit:cover;display:block;image-rendering:pixelated;image-rendering:crisp-edges}
+@supports (image-rendering:pixelated){.cover img.cimg{image-rendering:pixelated}}
 .cover .fallback{position:absolute;inset:0;width:100%;height:100%}
 .cover .ctitle{position:absolute;left:4%;bottom:7%;z-index:2;max-width:78%;background:rgba(255,255,255,.88);border:1px solid var(--rule);border-radius:14px;padding:10px 16px}
 .cover .ctitle b{display:block;font-size:clamp(11px,1.5vw,15px);color:var(--amber);letter-spacing:.04em}
